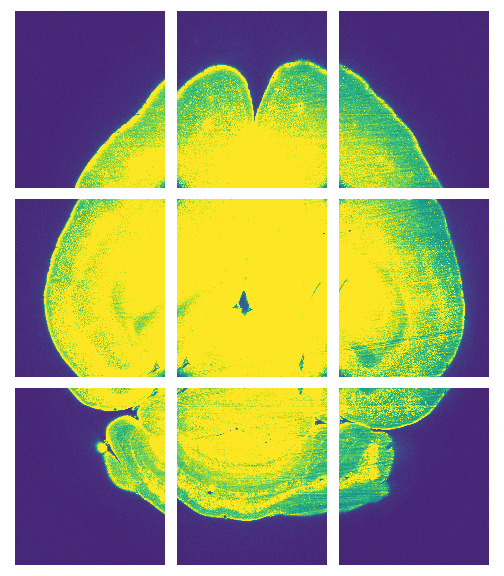
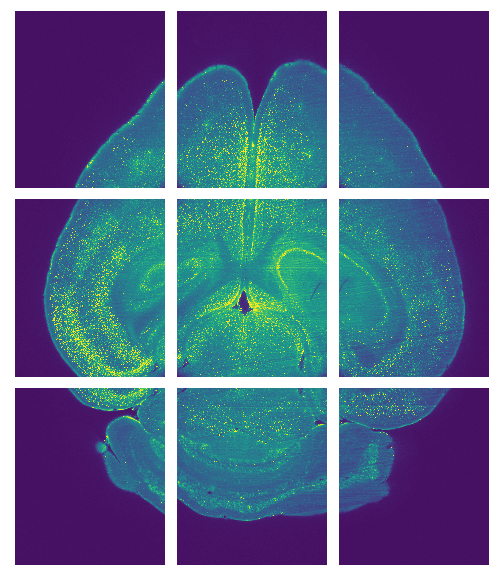
adjust colorbar and order of plots
Former-commit-id: bcfa1619d0ea2e0612e3dc8c312e9d673cfc00d7

diff --git a/EXAMPLES.md b/EXAMPLES.md
@@ -217,10 +217,9 @@ This step may take between a few minutes depending on your available computing r
 Visualize them to make sure the stitching worked propertly. The Z=0 plane should look identical (or very close) to this:
 <div align="center">
     <figure>
-            <img src="static/stitching_demo_plane0.png" style="width:45%">
             <img src="static/stitching_demo_plane0_tiles.png" style="width:45%">
+            <img src="static/stitching_demo_plane0.png" style="width:45%"></figure>
       <figcaption>Figure 1: What the demo Z=0 plane should look like before and after stitching </figcaption>
-    </figure>
 </div>
 
 
